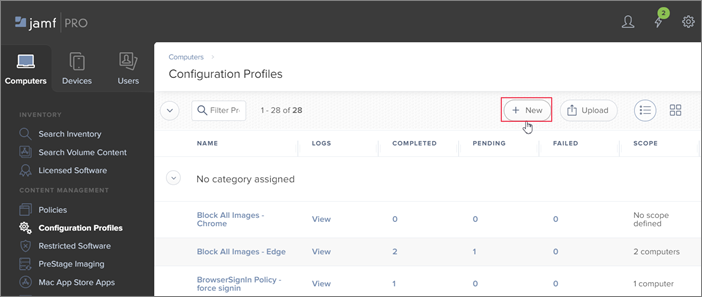
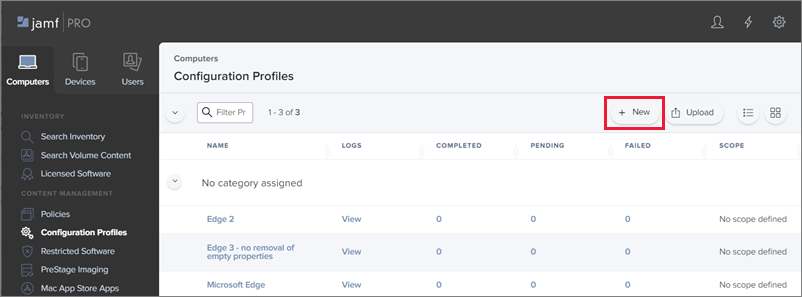
rough draft done

diff --git a/edgeenterprise/configure-microsoft-edge-on-mac-jamf.md b/edgeenterprise/configure-microsoft-edge-on-mac-jamf.md
@@ -47,13 +47,13 @@ To get the policy manifest:
   > [!NOTE]
   > Currently, the policy templates bundled is signed as a CAB file. You'll need to use a 3rd party tool, such as The Unarchiver, to open the file on macOS. You can get the Unarchiver from the [Microsoft Store](https://www.microsoft.com/p/the-unarchiver/9nblggh2sjjt?activetab=pivot:overviewtab) or from the [Mac App Store](https://apps.apple.com/us/app/the-unarchiver/id425424353?mt=12).
 
-After you unpack the CAB file, navigate to the "mac" top level directory. The manifest, which is named "policy_manifest.json", is in the "mac" directory.
+After you unpack the CAB file, unpack the ZIP file and navigate to the "mac" top level directory. The manifest, which is named "policy_manifest.json", is in this directory.
 
 This manifest will be published in every policy bundle starting with build 81.0.416.3. If you want to test policies in the Dev channel, you can take the manifest associated with each Dev release and test it in Jamf Pro.  
 
 ## Use the policy manifest in Jamf Pro
 
-Use the following steps to upload the policy manifest to Jamf Pro and then create a .plist for macOS.
+Use the following steps to upload the policy manifest to Jamf Pro and then create a policy profile for macOS.
 
 1. Sign in to Jamf.
 2. Select the **Computer** tab.
@@ -63,20 +63,42 @@ Use the following steps to upload the policy manifest to Jamf Pro and then creat
    ![Add a new profile in Jamf](media/configure-microsoft-edge-on-mac-jamf/configure-macos-jamf-configuration-profiles.png)
 
 5. On **New macOS Configuration Profile**>**Options**, select **Application & Custom Settings**.
-6. On the **Application & Custom Settings** form:
+6. On the **Application & Custom Settings** popup window, click Configure.
+
+   ![Configure Application and Custom Settings](media/configure-microsoft-edge-on-mac-jamf/configure-macos-jamf-app-and-custom.png)
+
+7. In the **Application & Custom Settings** section, set the values shown in the following screen shot. 
+
+   ![Profile source and custom schema](media/configure-microsoft-edge-on-mac-jamf/configure-macos-jamf-app-and-custom-schema.png)
 
    - For **Creation Method**, pick **Configure settings**.
-   - For **Source**, pick **Jamf Repository** from the dropdown list.
-   - For **Preference Domain**, pick the name of your domain from the dropdown list.
-   - For **Version**, select the version of the preference domain from the dropdown list.
-   - Maybe fill out/select some more form fields.
+   - For **Source**, pick **Custom Schema**.
+   - For **Preference Domain**, provide the name of your domain. This example uses *com.microsoft.Edge* as the domain.
+   - For **Custom Schema**, paste the contents of the "policy_manifest.json" manifest file.
+   - Click **Save**.
 
-7. do something, then do more
-8. Eventually paste policy manifest into Jamf
-9. Magically create a .plist!
-10. Click **Save**.
+8. After you save the profile, Jamf displays the **General** section shown in the next screen shot.
 
-After you create the .plist you still have to configure the **Scope** for the new configuration profile.
+   ![Configure General section](media/configure-microsoft-edge-on-mac-jamf/configure-macos-jamf-app-and-custom-general-setting.png)
+
+   - Provide a display **Name** for the profile and a **Description**.
+   - Keep the default setting for **Category**, which is **None**.
+   - For **Distribution Method**, the options are **Install Automatically** or **Make Available in Self Service**.
+   - For **Level**, the options are **User Level** or **Computer Level**.
+   - Click **Save**.
+
+9. After you save the General section, Jamf shows the "Microsoft Edge Beta Channel" configuration profile set up for our example. In the next screen shot, note that you can keep working the profile by clicking **Edit** or if you're finished, click **Done**.
+
+   ![New configuration profile with options](media/configure-microsoft-edge-on-mac-jamf/configure-macos-jamf-configuration-profiles-beta-channel.png)
+
+   > [!NOTE]
+   > You can edit this profile after it's been saved and in another Jamf session. For example, you might decide to change the Distribution Method to Make Available in Self Service.
+
+   To do a follow up edit on the Microsoft Edge Beta Channel, or delete it, click on the profile name, shown in the following Configuration Profiles screen shot.
+
+   ![Configuration Profiles list](media/configure-microsoft-edge-on-mac-jamf/configure-macos-jamf-configuration-profiles-beta-channel-done.png)
+
+After you create the new configuration profile you still have to configure the **Scope** for the profile.
 
 ### To configure the scope
 
